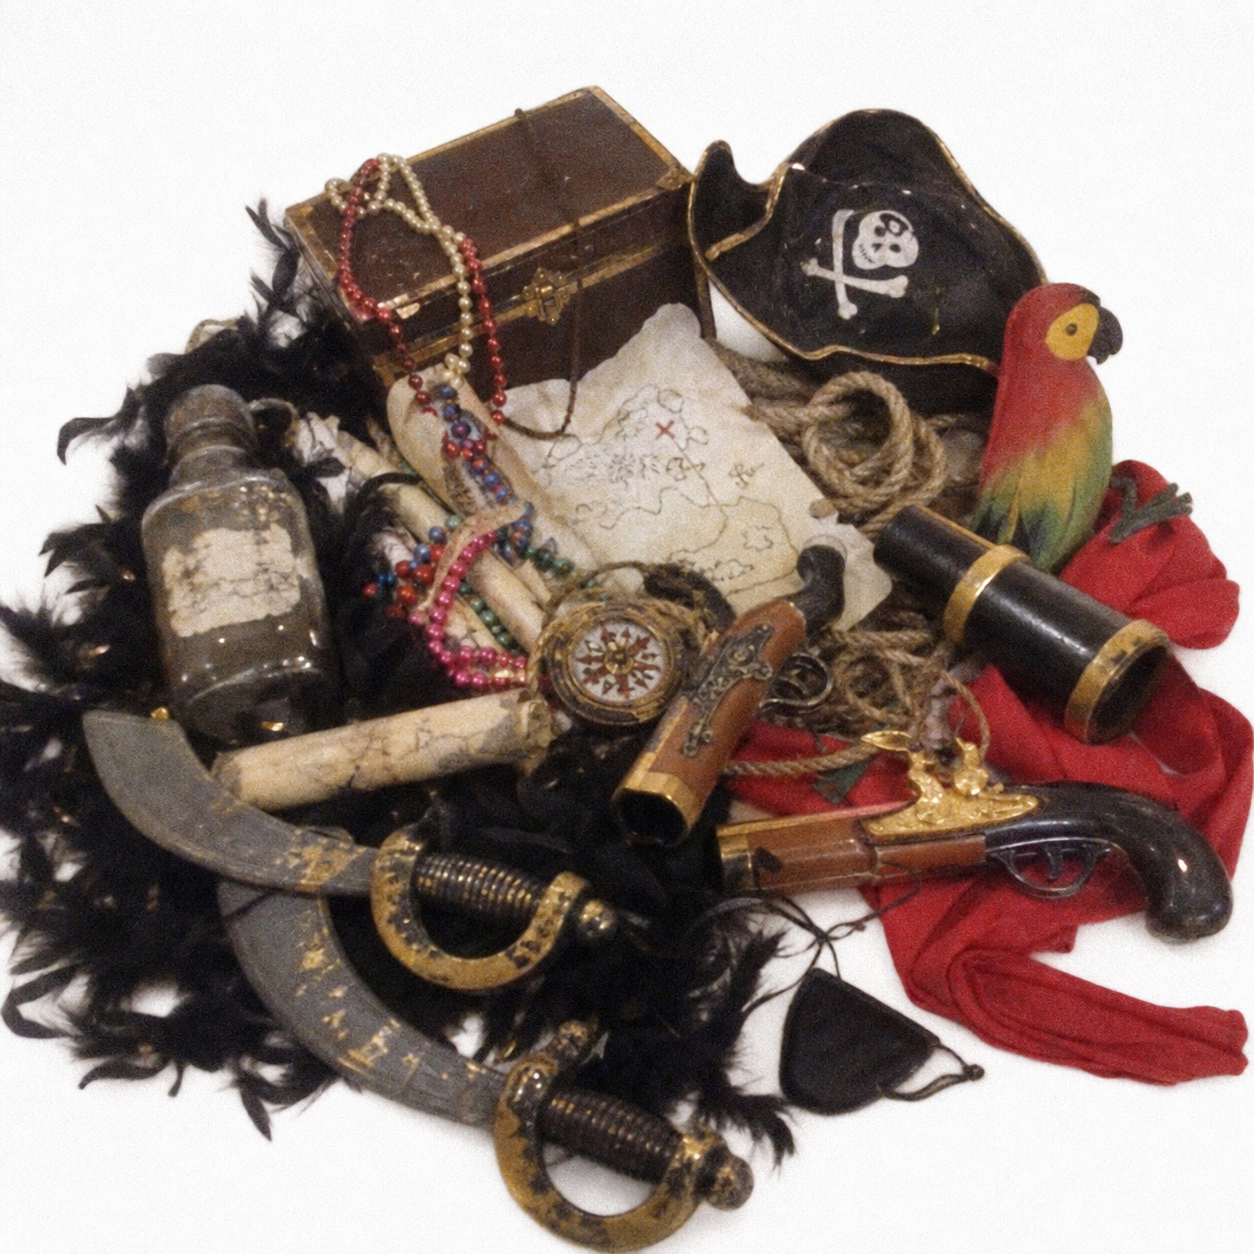
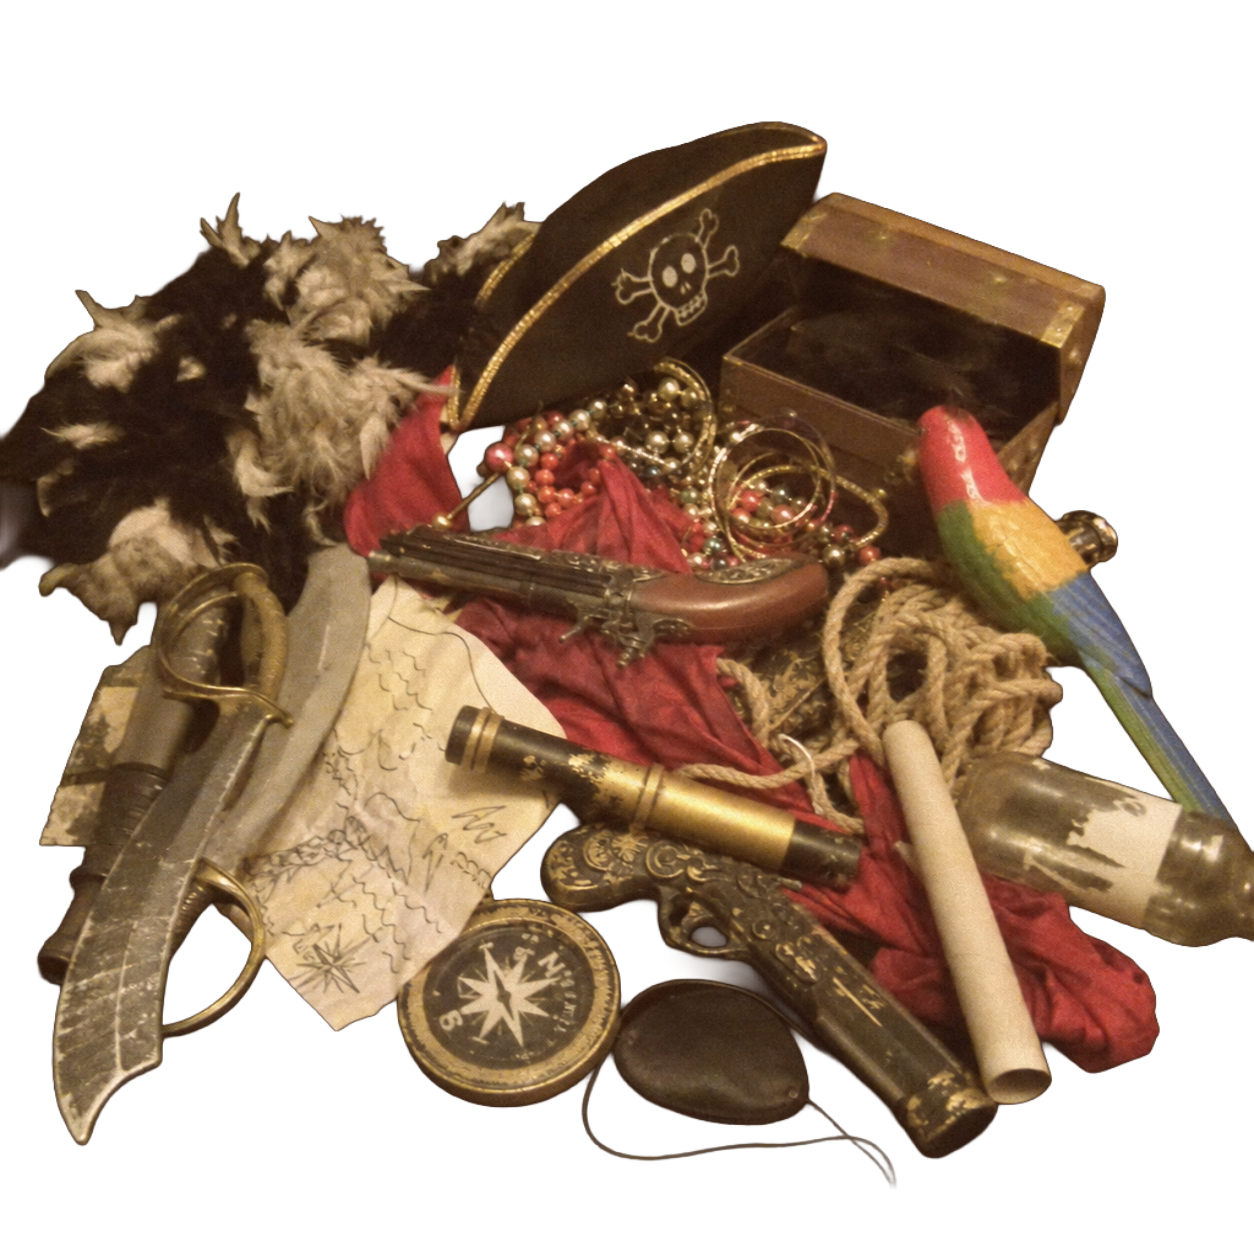
Tema-section: theatre-props-bild + plus/minus-kolumner, crew-preload
- Tema-sub i Vad är detta-kortet: bild (theatre-props-pile.webp, 104 KB
  optimerad från 2.7 MB PNG) till vänster, narrativ till höger, +/-
  kolumner (Mindre/Mer från theme_doesnt_fit/theme_fits) i botten.
- scripts/optimize-theatre-props.js + npm script.
- .practical-sub h3: display-font 1.4rem (var 0.9rem caps).
- manifest-card: max-width 40rem, padding 2.5rem 3.5rem 3rem
  (mobil: 2rem 1.5rem 2.5rem), text-align center.
- "Pirater som hörsammat kallelsen" borttagen.
- card--practical: max-width 62rem (matchar besättningen).
- Ovanan-bild: column 14→20rem.
- Crew-portrait preload: preloadAssets() returnerar Promise; när map+
  card-overlays settlat kickar preloadCrewPortraits() igång parallellt
  med reveal-animationen. fetchpriority="low" på portrait-img.

diff --git a/scripts/generate-theatre-props.js b/scripts/generate-theatre-props.js
@@ -1,6 +1,6 @@
 #!/usr/bin/env node
 /**
- * Generate amateur theatre prop still-life PNGs (white background).
+ * Generate amateur theatre prop still-life PNGs (dark brown background).
  * Style per scripts/generate-portraits.js + aesthetic-style-guide.md
  *
  * Default backend: ChatGPT subscription via Codex OAuth (`codex login`).
@@ -25,15 +25,15 @@ const STYLE = `Vintage pirate romanticism in the Svarta Malin style — but LOW 
 
 const AMATEUR = `AMATEUR EXECUTION — MAXIMUM CRAP: Obvious fake stage props from a pound shop or party-supplies aisle — wobbly plastic cutlasses with chipped gold spray-paint, foam flintlocks that look like toys, a bent cardboard spyglass, a treasure map drawn in felt-tip on crumpled printer paper, a chunky painted-wood compass with the needle stuck, felt eyepatch, tangled nylon rope, a sad deflated plastic parrot, a crushed tricorn with a crooked skull painted on in marker, plastic bangles, a shoebox treasure chest, polyester sash from a costume bag, cheap feather boa shedding feathers, beads from a craft kit, an empty glass bottle with the label peeled off, toilet-roll tube scroll. Props dumped in a messy heap like someone swept them off a rehearsal floor. Village-hall panto energy — charmingly rubbish, never convincing or expensive.`
 
-const BACKGROUND = `CRITICAL: Plain flat white background (#FFFFFF) behind the prop pile only. No floor, no table, no gradient, no shadow on a surface — just white fill around the heap.`
+const BACKGROUND = `CRITICAL: Plain flat dark brown background behind the prop pile only — rich chocolate brown or deep umber (#3d2817 to #2a1a0e), no gradient, no floor, no table, no vignette. Props sit directly on the dark brown fill.`
 
-const NEG = `No sharp focus, no crisp detail, no museum-quality replicas, no expensive cosplay, no professional studio lighting, no clean product shot, no bright saturated colors, no neon, no glossy CGI, no hyperrealistic rendering, no transparent background, no grey backdrop, no text, no watermark, no border frame, no Pirates of the Caribbean look, no Disney pirate aesthetic.`
+const NEG = `No sharp focus, no crisp detail, no museum-quality replicas, no expensive cosplay, no professional studio lighting, no clean product shot, no bright saturated colors, no neon, no glossy CGI, no hyperrealistic rendering, no transparent background, no white background, no grey backdrop, no text, no watermark, no border frame, no Pirates of the Caribbean look, no Disney pirate aesthetic.`
 
 /** @type {{ file: string, prompt: string }[]} */
 const ASSETS = [
   {
     file: 'theatre-props-pile.png',
-    prompt: `A crappy low-quality photograph of a messy pile of amateur theatre pirate props stacked and tangled together — still life, no people. Bad snapshot quality: soft blur, heavy grain, slightly washed out, unflattering flat flash or dim hall lighting. Items in the heap: two rubber cutlasses with chipped gold spray-paint, foam flintlock pistols, bent plastic spyglass, crumpled felt-tip treasure map on printer paper, chunky painted compass, felt eyepatch, tangled rope, sad plastic parrot, crushed tricorn with marker skull, plastic jewellery, shoebox treasure chest, polyester sash, shedding feather boa, craft beads, peeled-label bottle, cardboard scroll. Dumped chaotically like swept off a rehearsal floor. Square composition, pile centered on plain white background.`,
+    prompt: `A crappy low-quality photograph of a messy pile of amateur theatre pirate props stacked and tangled together — still life, no people. Bad snapshot quality: soft blur, heavy grain, slightly washed out, unflattering flat flash or dim hall lighting. Items in the heap: two rubber cutlasses with chipped gold spray-paint, foam flintlock pistols, bent plastic spyglass, crumpled felt-tip treasure map on printer paper, chunky painted compass, felt eyepatch, tangled rope, sad plastic parrot, crushed tricorn with marker skull, plastic jewellery, shoebox treasure chest, polyester sash, shedding feather boa, craft beads, peeled-label bottle, cardboard scroll. Dumped chaotically like swept off a rehearsal floor. Square composition, pile centered on plain dark brown background.`,
   },
 ]
 

diff --git a/src/pages/webgl.js b/src/pages/webgl.js
@@ -9,6 +9,7 @@ import { hasGivenAnswer } from '../lib/guest.js'
 import { openRsvpFlow } from '../components/rsvp-modal.js'
 import { openLightbox } from '../lib/image-lightbox.js'
 import { fetchPracticalMap, formatPracticalMarkdown } from '../components/practical-info.js'
+import { escapeHtml } from '../lib/escape.js'
 
 export async function renderWebgl(app) {
   app.innerHTML = `
@@ -42,7 +43,6 @@ export async function renderWebgl(app) {
         <section class="card-section">
           <div class="card card--crew">
             <h2>Besättningen</h2>
-            <p class="lead">Pirater som hörsammat kallelsen.</p>
             <div class="crew-collage" id="crew-collage">Laddar besättning…</div>
           </div>
         </section>
@@ -72,7 +72,13 @@ export async function renderWebgl(app) {
             <div id="party-type-body">Laddar…</div>
             <div class="practical-sub">
               <h3>Tema</h3>
-              <div id="party-theme">Laddar…</div>
+              <div class="theme-layout">
+                <figure class="theme-img">
+                  <img src="/images/theatre-props-pile.webp" alt="" />
+                </figure>
+                <div id="party-theme">Laddar…</div>
+              </div>
+              <div class="theme-columns" id="theme-columns"></div>
             </div>
           </div>
         </section>
@@ -124,6 +130,7 @@ export async function renderWebgl(app) {
   renderNarrative(document.getElementById('practical-sova'),     { key: 'sova' })
   renderNarrative(document.getElementById('party-type-body'), { title: 'Vad är detta för typ av fest?', key: 'party_type' })
   renderNarrative(document.getElementById('party-theme'),     { key: 'theme_intro' })
+  renderThemeColumns(document.getElementById('theme-columns'))
   renderNarrative(document.getElementById('sec-bidra'),       { title: 'Bidra', key: 'bidra' })
   renderNarrative(document.getElementById('sec-besattningar'),{ title: 'Besättningar', key: 'besattningar' })
   renderNarrative(document.getElementById('sec-osa-top'),     { key: 'osa' })
@@ -146,6 +153,25 @@ async function refreshAnswerState() {
   document.querySelectorAll('.osa-section').forEach((s) => { s.hidden = answered })
   const infoBtn = document.getElementById('info-btn')
   if (infoBtn) infoBtn.hidden = !answered
+}
+
+async function renderThemeColumns(el) {
+  if (!el) return
+  const { map } = await fetchPracticalMap()
+  const col = (raw, variant) => {
+    if (!raw) return ''
+    const lines = raw.split('\n').map((l) => l.trim()).filter(Boolean)
+    const header = lines[0]
+    const items = lines.slice(1)
+      .filter((l) => l.startsWith('* ') || l.startsWith('- '))
+      .map((l) => l.slice(2).trim())
+    const headerHtml = `<h4 class="theme-col__title">${formatPracticalMarkdown(header)}</h4>`
+    const list = items.length
+      ? `<ul class="theme-list theme-list--${variant}">${items.map((i) => `<li>${escapeHtml(i)}</li>`).join('')}</ul>`
+      : ''
+    return `<div class="theme-col theme-col--${variant}">${headerHtml}${list}</div>`
+  }
+  el.innerHTML = col(map?.theme_doesnt_fit, 'minus') + col(map?.theme_fits, 'plus')
 }
 
 async function renderOsaFacts() {

diff --git a/scripts/optimize-theatre-props.js b/scripts/optimize-theatre-props.js
@@ -1,0 +1,69 @@
+#!/usr/bin/env node
+/**
+ * Optimize theatre-props source PNGs → WebP for web delivery.
+ *
+ * Source: images/theatre-props-generated/theatre-props-*.png
+ * Output: public/images/theatre-props-*.webp
+ *
+ * Usage: node scripts/optimize-theatre-props.js
+ */
+
+import { readdir, mkdir, stat } from 'node:fs/promises'
+import { join, dirname } from 'node:path'
+import { fileURLToPath } from 'node:url'
+import sharp from 'sharp'
+
+const __dirname = dirname(fileURLToPath(import.meta.url))
+const ROOT = join(__dirname, '..')
+const SRC_DIR = join(ROOT, 'images', 'theatre-props-generated')
+const OUT_DIR = join(ROOT, 'public', 'images')
+
+const WIDTH = 768
+const QUALITY = 82
+
+async function main() {
+  await mkdir(OUT_DIR, { recursive: true })
+
+  const files = (await readdir(SRC_DIR))
+    .filter((f) => /^theatre-props-.*\.png$/i.test(f))
+    .sort()
+
+  if (!files.length) {
+    console.error(`No theatre-props-*.png in ${SRC_DIR}`)
+    process.exit(1)
+  }
+
+  let totalIn = 0
+  let totalOut = 0
+
+  for (const file of files) {
+    const src = join(SRC_DIR, file)
+    const outName = file.replace(/\.png$/i, '.webp')
+    const out = join(OUT_DIR, outName)
+
+    const meta = await sharp(src).metadata()
+    const srcBytes = (await stat(src)).size
+
+    const info = await sharp(src)
+      .resize(WIDTH, WIDTH, { fit: 'inside', withoutEnlargement: true })
+      .webp({ quality: QUALITY, alphaQuality: 100, effort: 6 })
+      .toFile(out)
+
+    totalIn += srcBytes
+    totalOut += info.size
+    console.log(
+      `${file} (${meta.width}×${meta.height}, ${Math.round(srcBytes / 1024)} KB)`
+      + ` → ${outName} (${info.width}×${info.height}, ${Math.round(info.size / 1024)} KB)`,
+    )
+  }
+
+  console.log(
+    `\nTotal: ${Math.round(totalIn / 1024)} KB → ${Math.round(totalOut / 1024)} KB`
+    + ` (${Math.round((1 - totalOut / totalIn) * 100)}% smaller)`,
+  )
+}
+
+main().catch((err) => {
+  console.error(err)
+  process.exit(1)
+})

diff --git a/src/styles/home.css b/src/styles/home.css
@@ -268,9 +268,10 @@
   margin-top: 1.5rem;
 }
 .practical-sub h3 {
-  margin: 0 0 0.5rem;
-  font-size: 0.9rem;
-  letter-spacing: 0.2em;
+  margin: 0 0 0.75rem;
+  font-family: var(--font-display);
+  font-size: 1.4rem;
+  letter-spacing: 0.12em;
   text-transform: uppercase;
   color: var(--gold);
 }
@@ -279,6 +280,68 @@
   line-height: 1.7;
 }
 .practical-sub p:last-child { margin-bottom: 0; }
+
+/* Tema — bild till vänster */
+.theme-layout {
+  display: grid;
+  grid-template-columns: minmax(0, 16rem) 1fr;
+  gap: 1.5rem;
+  align-items: start;
+}
+.theme-img { margin: 0; }
+.theme-img img {
+  display: block;
+  width: 100%;
+  height: auto;
+}
+@media (max-width: 560px) {
+  .theme-layout { grid-template-columns: 1fr; justify-items: center; }
+  .theme-img { max-width: 14rem; }
+}
+
+/* Tema — plus/minus-kolumner i botten */
+.theme-columns {
+  display: grid;
+  grid-template-columns: 1fr 1fr;
+  gap: 1.5rem;
+  margin-top: 1.5rem;
+  text-align: left;
+}
+.theme-col__title {
+  margin: 0 0 0.5rem;
+  font-family: var(--font-display);
+  font-size: 1.1rem;
+  letter-spacing: 0.1em;
+}
+.theme-col--plus  .theme-col__title { color: #6db77f; }
+.theme-col--minus .theme-col__title { color: #c97565; }
+.theme-list {
+  list-style: none;
+  margin: 0;
+  padding: 0;
+  display: flex;
+  flex-direction: column;
+  gap: 0.45rem;
+}
+.theme-list li {
+  position: relative;
+  padding-left: 1.5rem;
+  line-height: 1.5;
+}
+.theme-list li::before {
+  position: absolute;
+  left: 0;
+  top: 0;
+  font-family: var(--font-display);
+  font-weight: bold;
+  font-size: 1.1rem;
+  line-height: 1.5;
+}
+.theme-list--plus  li::before { content: '+'; color: #6db77f; }
+.theme-list--minus li::before { content: '−'; color: #c97565; }
+@media (max-width: 560px) {
+  .theme-columns { grid-template-columns: 1fr; gap: 1.25rem; }
+}
 
 /* Manifest — Svarta Malins kallelse, framträdande style */
 .card--manifest {

diff --git a/src/lib/preload.js b/src/lib/preload.js
@@ -50,14 +50,42 @@ const HERO_ASSETS = [
 
 const ALL = [...MAP_IMAGES, ...CARD_OVERLAYS, ...HERO_ASSETS]
 
-let started = false
+let assetsPromise = null
 
-export function preloadAssets() {
-  if (started) return
-  started = true
-  for (const src of ALL) {
+function preloadImage(src) {
+  return new Promise((resolve) => {
     const img = new Image()
     img.decoding = 'async'
+    img.onload = () => resolve()
+    img.onerror = () => resolve()  // tolerera fel — vi ska bara CACHA, inte gate:a
     img.src = src
-  }
+  })
+}
+
+/** Förladdar animationens assets. Returnerar Promise som settlar när allt är inne i cache. */
+export function preloadAssets() {
+  if (assetsPromise) return assetsPromise
+  assetsPromise = Promise.all(ALL.map(preloadImage))
+  return assetsPromise
+}
+
+let crewStarted = false
+/**
+ * Förladdar pirate-portraits. Anropas EFTER preloadAssets() settlat så vi
+ * inte konkurrerar med animation-assets om bandbredd.
+ */
+export async function preloadCrewPortraits() {
+  if (crewStarted) return
+  crewStarted = true
+  const { supabase } = await import('./supabase.js')
+  const { portraitPath } = await import('./portraits.js')
+  const { data } = await supabase
+    .from('public_guests')
+    .select('real_name, pirate_name_id')
+    .not('pirate_name_id', 'is', null)
+  if (!data) return
+  // fetchpriority="low" via Image() finns inte — bara dl till cache parallellt.
+  // Browsers begränsar per-origin connections, så detta kör som "låg" naturligt
+  // efter animation-assets redan tagit sina connections.
+  for (const g of data) preloadImage(portraitPath(g.real_name))
 }

diff --git a/src/main.js b/src/main.js
@@ -3,14 +3,16 @@ import { hideTopControls, pauseShowAudio } from './lib/audio.js'
 import { clearSession, getGuestId } from './lib/state.js'
 import { showLoading, hideLoading } from './lib/loading.js'
 import { initPerf } from './lib/perf.js'
-import { preloadAssets } from './lib/preload.js'
+import { preloadAssets, preloadCrewPortraits } from './lib/preload.js'
 import { mountMapBackground, unmountMapBackground } from './components/map.js'
 
 if ('scrollRestoration' in history) history.scrollRestoration = 'manual'
 window.scrollTo(0, 0)
 
 initPerf()
-preloadAssets()
+// Animation-assets först. När de är inne i cache, börja ladda crew-portraits
+// i bakgrunden — undviker konkurrans med Pixi/reveal under intro-animationen.
+preloadAssets().then(preloadCrewPortraits)
 
 const app = document.getElementById('app')
 

diff --git a/src/components/pirate-card.js b/src/components/pirate-card.js
@@ -43,7 +43,7 @@ export function pirateCardHtml({ photoSrc, pirateName, placeholder = false, over
   const longName = pirateName.length > LONG_PIRATE_NAME_LEN
   const frameId = frameIdFromOverlay(overlaySrc)
   const photoMark = photoSrc && !placeholder
-    ? `<img class="pirate-card__photo-img" src="${escapeAttr(photoSrc)}" alt="" decoding="async" />`
+    ? `<img class="pirate-card__photo-img" src="${escapeAttr(photoSrc)}" alt="" decoding="async" fetchpriority="low" />`
     : `<span class="pirate-card__placeholder" aria-hidden="true">🏴☠</span>`
 
   return `
